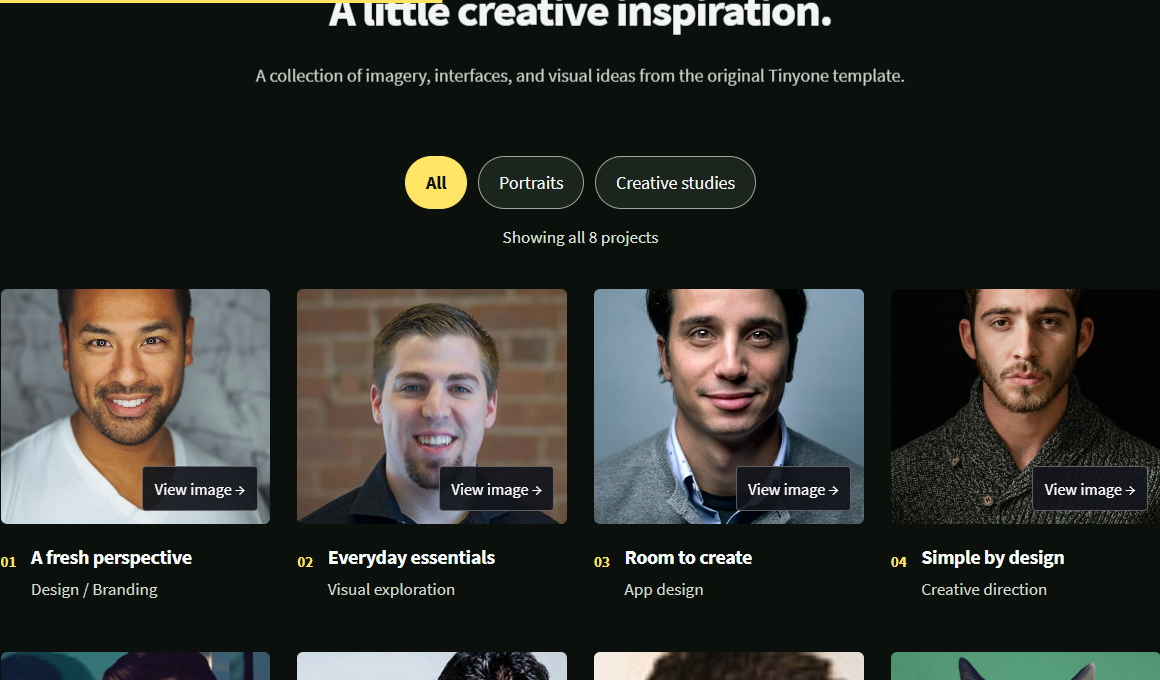
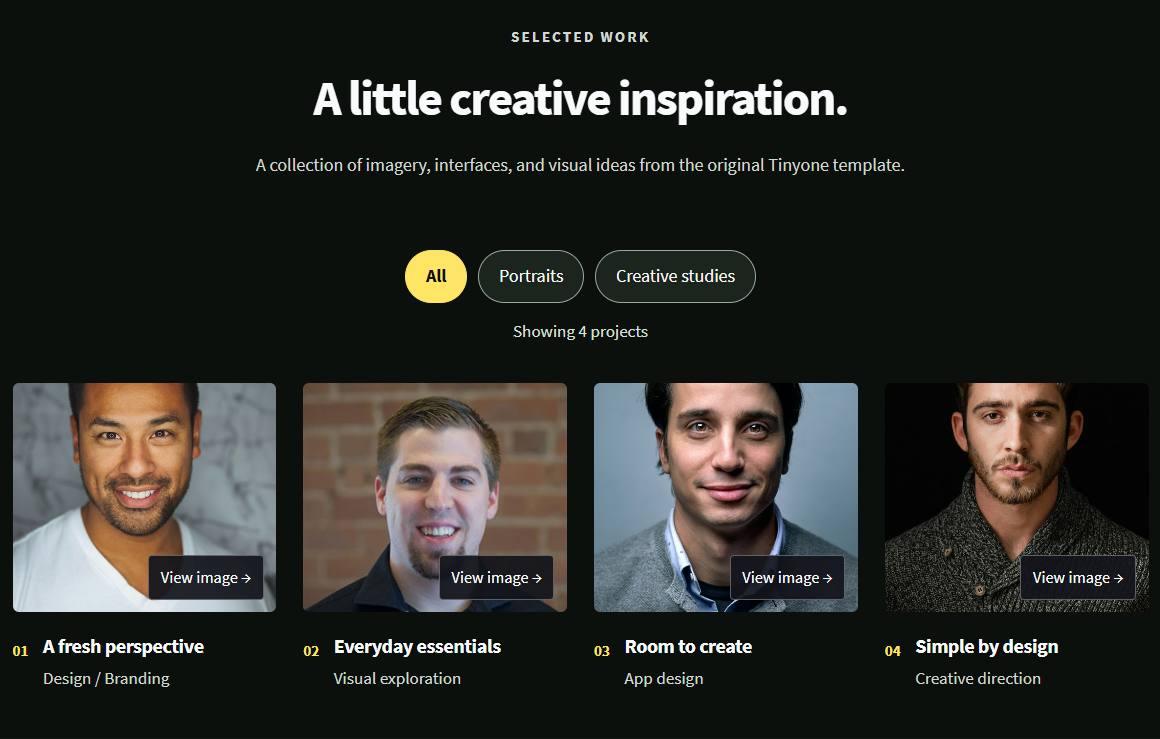
Fix README screenshots: remove progress-bar overlays and stop half-cropped sections.

diff --git a/README.md b/README.md
@@ -86,9 +86,9 @@ Expandable `<details>` / `<summary>` FAQ for scope, testing, and how to run the 
 
 ![FAQ details](docs/screenshots/12-faq-details.png)
 
-### 13. Reading progress and back-to-top
+### 13. Reading progress
 
-Scroll-linked reading progress bar at the top and a back-to-top control after scrolling.
+A thin top progress bar tracks scroll depth (shown here over the site header). A floating back-to-top control also appears after scrolling on the live page.
 
 ![Reading progress](docs/screenshots/13-reading-progress.png)
 
